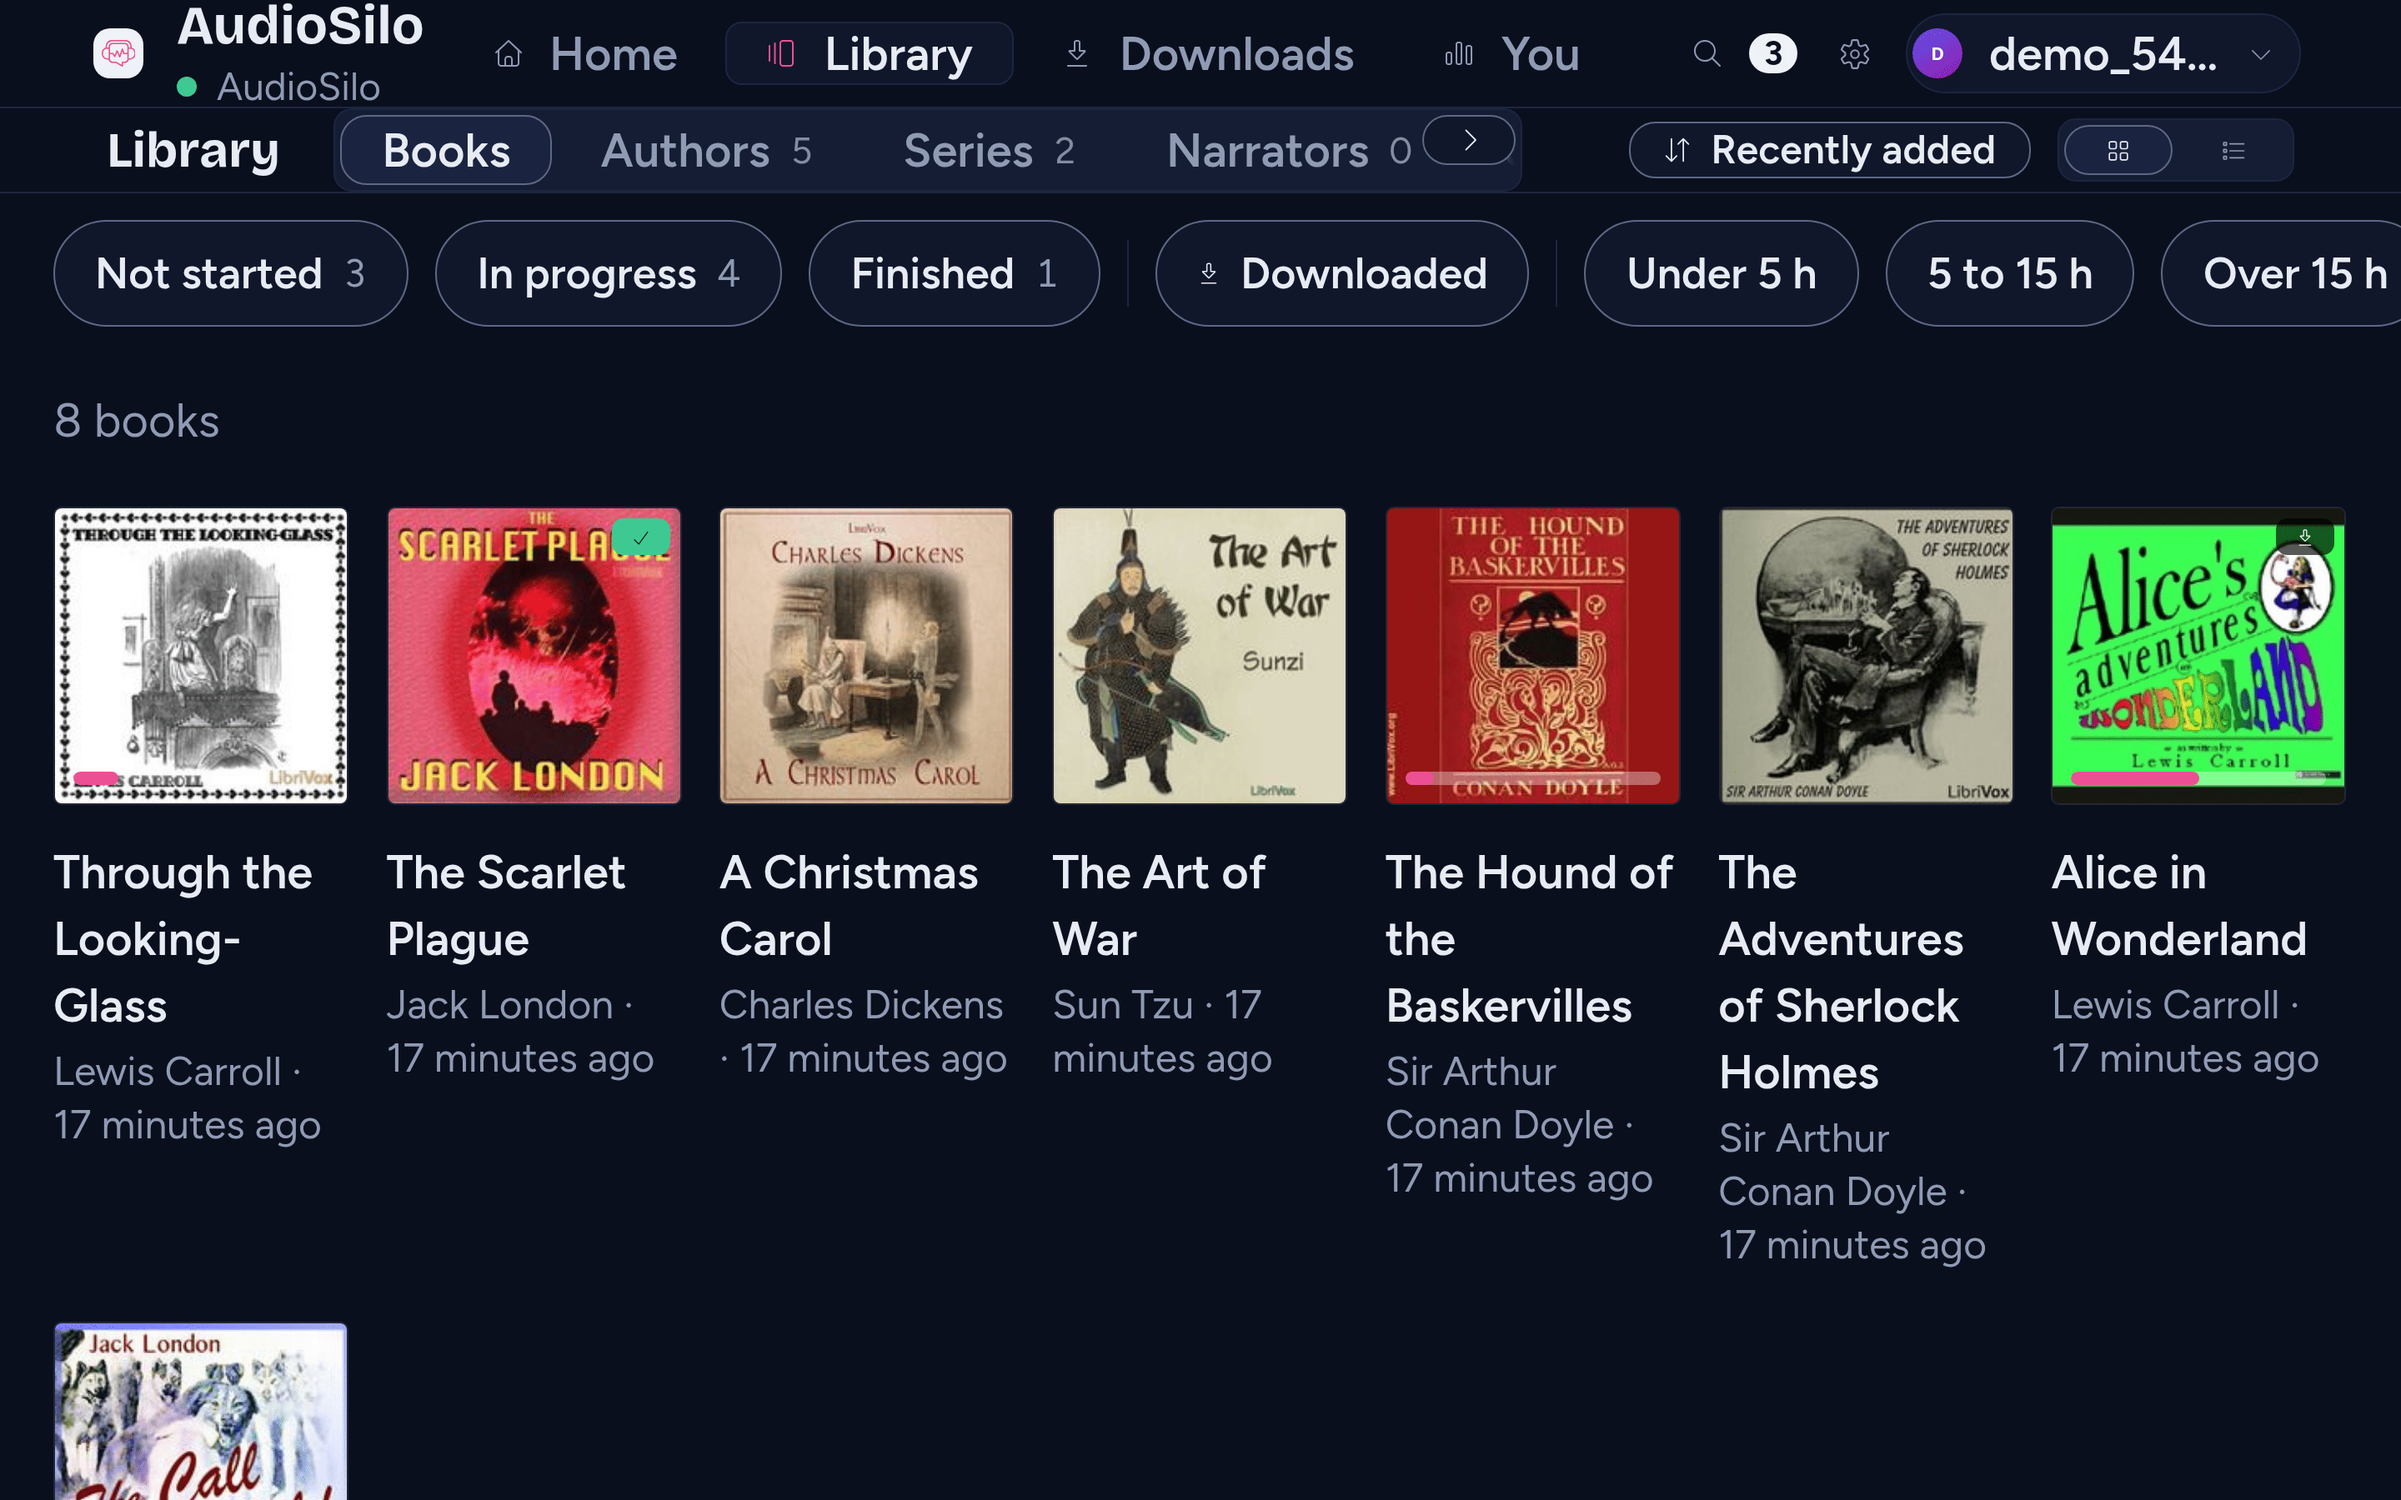
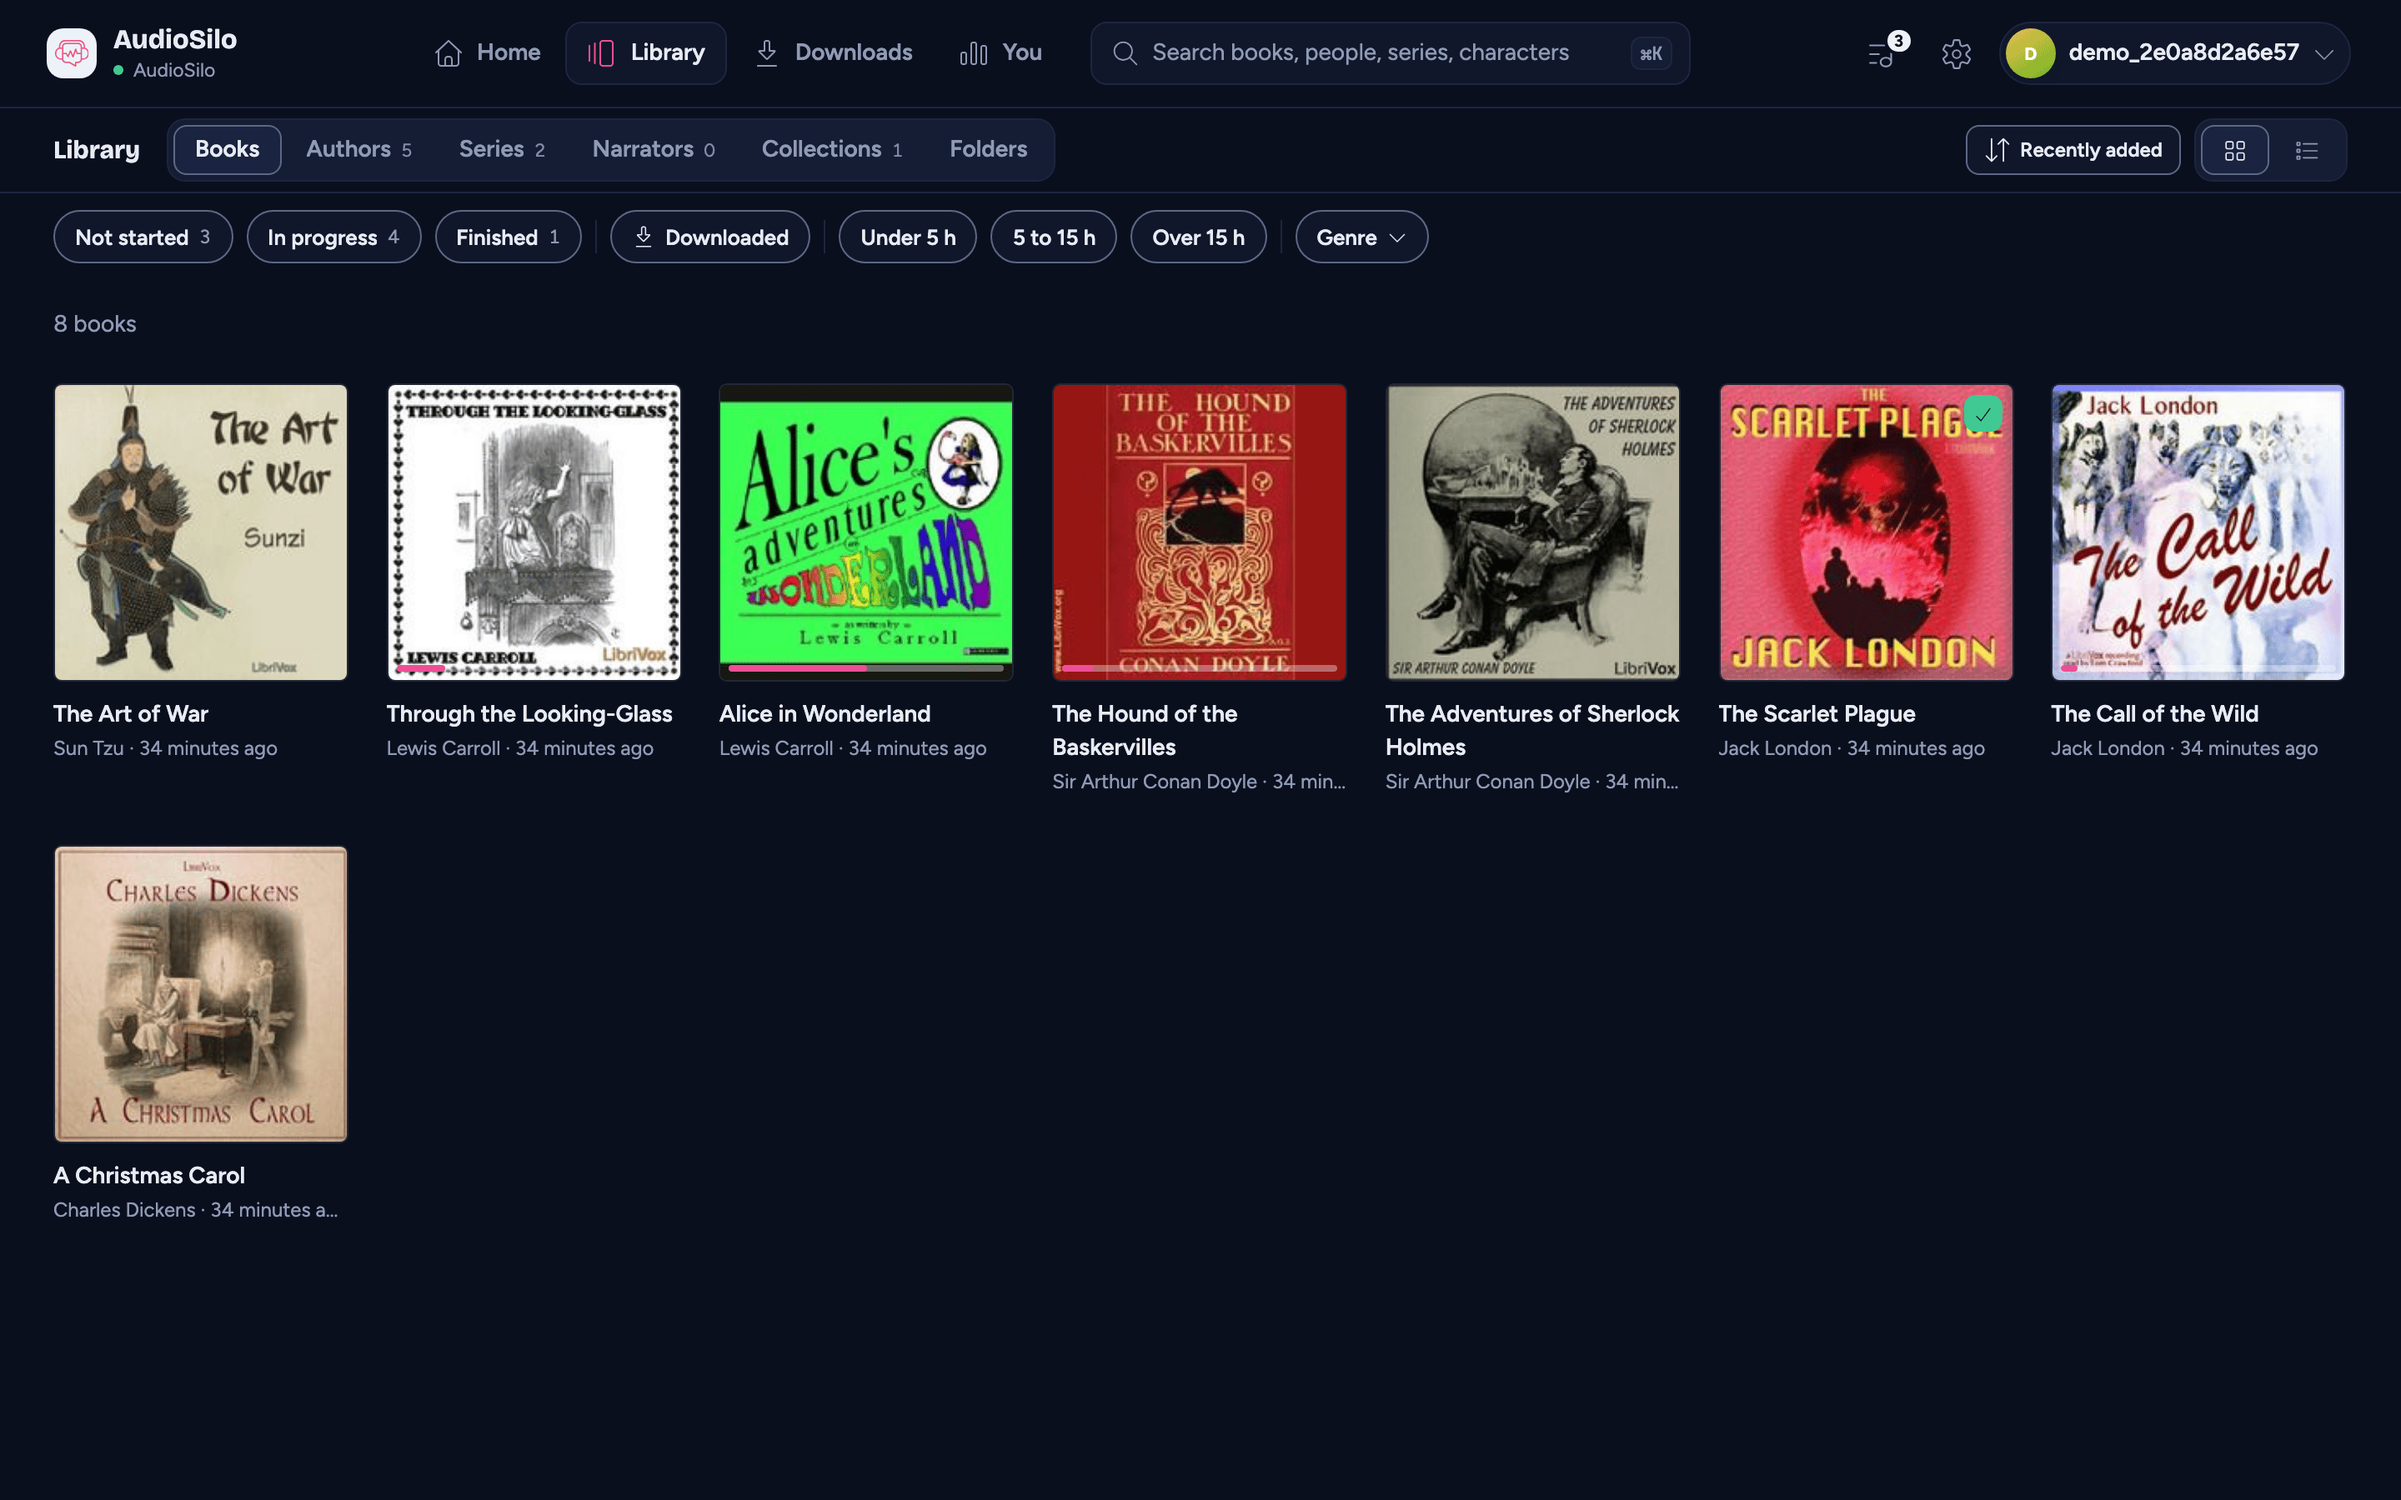
Show the Library at the default text size again
The Library page's main shot had become a large-text capture, which
hid Collections, Folders and the controls the text around it lists.
It is taken at the default size again, still in its own tab so the
Library tab can't open on a book page (the old capture showed A
Christmas Carol's page instead of the grid).

diff --git a/docs-developers/contributing/documentation.md b/docs-developers/contributing/documentation.md
@@ -90,13 +90,13 @@ mappings:
 | Config keys, env vars, CLI flags | [server/configuration.md](../server/configuration.md) + the User Guide pages that mention them (`/users/getting-started/remote-access`, quickstarts) |
 | Admin console UI (`admin-ui`) | `/users/admin/*` pages + the `admin/` screenshots (capture just those with `SHOTS_ONLY=admin/ screenshots/run.sh`) + [server/web-ui.md](../server/web-ui.md) for build, serving, CSP or new-section changes |
 | Player screens or strings | `/users/listening/*` pages + the `web-player/` screenshots |
-| The player's design system (`STYLEGUIDE.md`, tokens, fonts, `src/components/ui/` primitives, high contrast, the large-text, touch-target and screen-reader rules) | [frontend/styling.md](../frontend/styling.md) (+ [testing.md](../frontend/testing.md) when the token generator or style guards change; `/users/listening/settings#accessibility` when users notice it); the frontend's own `STYLEGUIDE.md` stays authoritative, so these pages summarise it rather than copy it |
+| The player's design system (`STYLEGUIDE.md`, tokens, fonts, `src/components/ui/` primitives, high contrast, the large-text, touch-target and screen-reader rules) | [frontend/styling.md](../frontend/styling.md) (+ [testing.md](../frontend/testing.md) when the token generator or style guards change; `/users/listening/settings#accessibility` when users notice it, with the large-text shots `web-player/book-details-large-text.png` and `listening-calendar-large-text.png`); the frontend's own `STYLEGUIDE.md` stays authoritative, so these pages summarise it rather than copy it |
 | The player's shell: tabs, route groups, breakpoints, top bar | [frontend/shell.md](../frontend/shell.md) + the route map in [frontend/routes.md](../frontend/routes.md), `/users/listening/browsing` (getting around), `/users/listening/mobile-apps` |
 | The full player, mini / docked player, the companion, player sheets, web keyboard shortcuts | [frontend/player-ui.md](../frontend/player-ui.md) + `/users/listening/full-player`, `/users/listening/playback`, `/users/listening/companion`, `/users/listening/keyboard-shortcuts` (+ `/users/listening/up-next` for the Up next sheet, `/users/listening/browsing` for Previously on) |
 | The book page (`src/components/book/`, the book tabs) | [frontend/book-page.md](../frontend/book-page.md) + `/users/listening/book-page` + the `web-player/book-*.png` and `phone-book-detail.png` screenshots |
 | Bookmarks and notes (`src/components/annotations/`, the editors, labels) | [frontend/annotations.md](../frontend/annotations.md) + `/users/listening/bookmarks-and-notes` (+ the `annotations` rows in [state-and-data.md](../frontend/state-and-data.md#bookmarks-notes-and-the-journal)) |
 | The Journal (`src/components/journal/`, export, `src/lib/listening-sessions.ts`) | [frontend/journal.md](../frontend/journal.md) + `/users/listening/journal` + the `web-player/journal*.png` screenshots |
-| The You hub, Your listening, Year in listening (`src/components/you/`, the `/year` modal, sharing a card) | [frontend/you-and-settings.md](../frontend/you-and-settings.md) + `/users/listening/you`, `/users/listening/year-in-listening` + the `web-player/you-stats.png`, `phone-you-stats.png` and `year.png` screenshots |
+| The You hub, Your listening, Year in listening (`src/components/you/`, the `/year` modal, sharing a card) | [frontend/you-and-settings.md](../frontend/you-and-settings.md) + `/users/listening/you`, `/users/listening/year-in-listening` + the `web-player/you-stats.png`, `listening-calendar-large-text.png`, `phone-you-stats.png` and `year.png` screenshots |
 | Settings or a server's Account page (`src/components/settings/`, `src/components/account/`) | [frontend/you-and-settings.md](../frontend/you-and-settings.md) + `/users/listening/settings`, `/users/listening/account` (+ `/users/listening/api-keys` for API keys) + the `web-player/settings.png`, `settings-appearance.png`, `phone-settings.png` and `account.png` screenshots; when a setting moves, every page that links its `settings.md#…` anchor |
 | Connect and onboarding (`src/app/connect/`, `src/components/connect/`), home and away addresses (`address-route.ts`, `address-runner.ts`, `server-address.ts`), the sign-in key (`sign-in-key.ts`) | [frontend/connect-and-addresses.md](../frontend/connect-and-addresses.md) + `/users/listening/connecting` + the `web-player/connect*.png` screenshots; the server side of the addresses is [server/configuration.md](../server/configuration.md#home-address-lan_url) and `/users/getting-started/remote-access` |
 | Recaps, characters, the series rails and the spoiler gate (`src/components/library/book-meta.tsx`, `meta-gating.ts`, `community-cover.ts`) | [frontend/state-and-data.md](../frontend/state-and-data.md#spoiler-gating-srccomponentslibrarymeta-gatingts) + `/users/listening/recaps-and-characters` |

diff --git a/screenshots/README.md b/screenshots/README.md
@@ -444,9 +444,11 @@ so the tab says Plays from this device.
 `book-details-large-text.png` uses the same downloaded book in an 800 px wide
 window. The capture doubles Chromium's default font size while the page is open
 and waits for the playback controls to move below the book. The file details
-then appear below each filename. The same font setting shows the wrapped captions
-on **Library > Books** in `library.png` and the calendar card on **You > Stats**
-in `listening-calendar-large-text.png`.
+then appear below each filename. The same font setting shows the calendar card on
+**You > Stats** in `listening-calendar-large-text.png`.
+
+`library.png` opens **Library > Books** in a tab of its own, since the Library tab
+of the browsing session can still have a book page open.
 
 The You shots (`web-player/you-stats.png`, `year.png`, `phone-you-stats.png`,
 `phone-settings.png`) and Home's This week need a year of listening, and the server

diff --git a/docs-users/listening/browsing.md b/docs-users/listening/browsing.md
@@ -68,7 +68,7 @@ Connected to more than one server? Home combines them. A book from another serve
 
 The **Library** tab holds everything on your server. Its sections are **Books**, **Authors**, **Series**, **Narrators**, **Collections** and **Folders**. On a phone, swipe the row of sections sideways.
 
-![The Books grid with large text. Long titles and authors' names wrap beneath the covers.](/img/screenshots/web-player/library.png)
+![The Library's Books section: the sections and controls along the top, and the cover grid](/img/screenshots/web-player/library.png)
 
 If you have more than one library or server, use the **Library** picker beside the controls. Every section except Folders shows one library at a time. A [podcast library](podcasts.md#shows-in-the-library) has just **Shows** and **Folders**.
 
